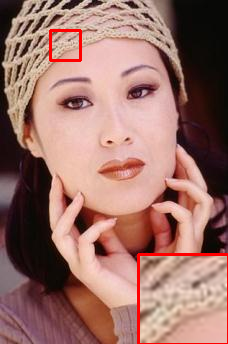
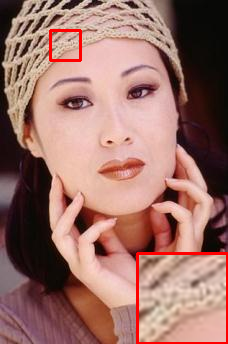
Add files via upload

diff --git a/图像测试标注代码Python版/mark.py b/图像测试标注代码Python版/mark.py
@@ -27,13 +27,13 @@ img_area = img.crop(box)
 # 裁剪区域放大
 img_area = img_area.resize((w * enlarge_factor, h * enlarge_factor), Image.ANTIALIAS)
 # 粘贴，第二个参数指定粘贴位置（根据需要调节）
-img.paste(img_area, (img_w - w * enlarge_factor, img_h - h * enlarge_factor))
+img.paste(img_area, (img_w - w * enlarge_factor-1, img_h - h * enlarge_factor-1))
 # 保存图片
 img.save('output.png')
 img = cv2.imread('output.png')
 # 绘制边框，第二第三个参数元祖表示指定框选区域，第四个参数指定线条颜色，第五个参数指定线条宽度
 cv2.rectangle(img, (x, y), (x1, y1), (0, 0, 255), 2)
-cv2.rectangle(img, (img_w - w * enlarge_factor, img_h - h * enlarge_factor), (img_w, img_h), (0, 0, 255), 2)
+cv2.rectangle(img, (img_w - w * enlarge_factor-1, img_h - h * enlarge_factor-1), (img_w-1, img_h-1), (0, 0, 255), 2)
 cv2.imshow("Image", img)
 cv2.imwrite('output.png', img)
 cv2.waitKey(0)
